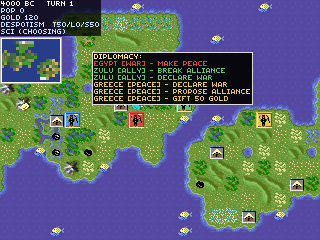
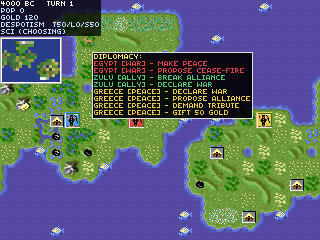
Diplomacy round 2: cease-fires, tribute demands, and AI-initiated diplomacy
Adds two diplomatic moves and makes the AI conduct its own foreign policy.

- Cease-fire: cmd-propose-ceasefire ends a war and records a truce (gs-truces,
  *ceasefire-turns*) that bars either side from re-declaring until it lapses; an
  AI accepts readily when it is not winning. ai-diplomacy now sues for a
  cease-fire (not just bare peace) when losing, and its pounce rule respects an
  active truce.
- Tribute: cmd-demand-tribute -- a weaker, gold-holding AI pays *tribute-amount*;
  a confident or warlike one refuses (gated by relative strength + temperament).
- AI-initiated: AIs propose alliances to worthy peers by temperament and agree
  cease-fires among themselves; both are chronicled in the log.

Both menu actions are surfaced in the Y menu (cease-fire when at war, tribute
when at peace). Truces are persisted. 923 model checks pass (new cease-fire and
tribute tests).

Changed region(s): [[0.2812, 0.2625, 0.8125, 0.4958]]

diff --git a/README.md b/README.md
@@ -304,16 +304,20 @@ your own units too — and dropping it on a civ you were at peace with is an act
 
 **Diplomacy & trade.** Relations are **war**, **peace**, or **alliance** per
 pair. The `Y` **diplomacy menu** lists, for each rival, the moves open to you:
-make peace with an enemy, declare war on a neighbour, **propose an alliance**
-(an AI weighs it — a civ welcomes an ally at least as strong as itself), **break**
-one, or **gift 50 gold** as a goodwill gesture. Allies can't attack each other,
-and the AI won't pounce on an ally (you can still betray one by declaring war).
-`E` opens a **trade** menu to swap advances or buy/sell them for gold, and the
-AIs trade among themselves too.
+make peace or propose a **cease-fire** with an enemy (a timed truce the AI won't
+break for a while), declare war on a neighbour, **propose an alliance** (an AI
+weighs it — a civ welcomes an ally at least as strong as itself), **break** one,
+**demand tribute** (a weaker, fearful AI pays gold; a confident one refuses), or
+**gift 50 gold** as a goodwill gesture. Allies can't attack each other, and the
+AI won't pounce on an ally (you can still betray one by declaring war). The AIs
+also conduct **their own diplomacy** — forming alliances and agreeing cease-fires
+among themselves as the game unfolds. `E` opens a **trade** menu to swap advances
+or buy/sell them for gold.
 
 ![the diplomacy menu](docs/diplo-menu.png)
 
-*Per-rival diplomacy: at war with Egypt, allied with Zulu, at peace with Greece.*
+*Per-rival diplomacy: at war with Egypt (make peace / cease-fire), allied with
+Zulu (break / declare war), at peace with Greece (war / alliance / tribute / gift).*
 
 **Diplomats** (`Z`/`X`/`D`) run
 the full espionage suite — steal tech, sabotage, establish an embassy,
